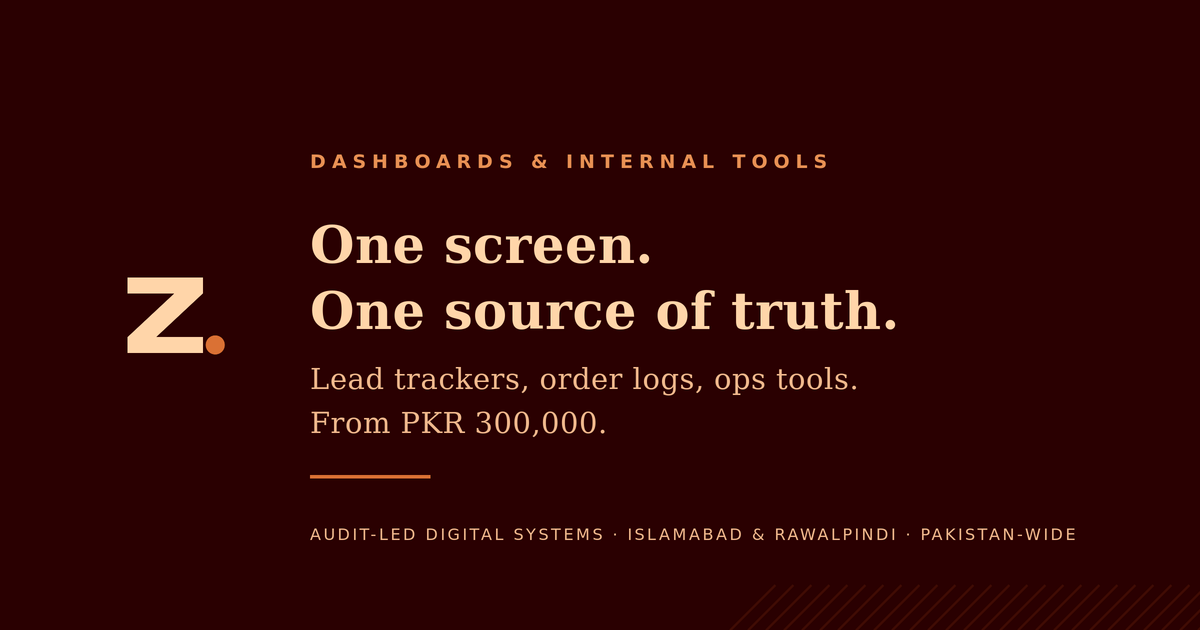
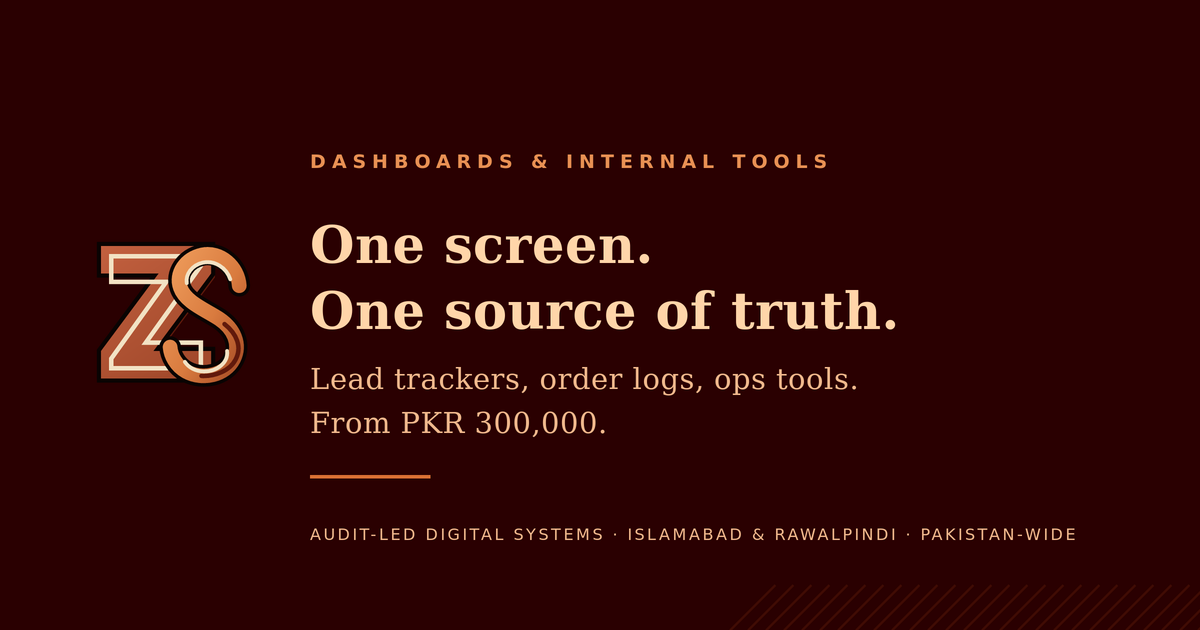
Fix OG images: replace old Z. glyph with canonical ZS monogram
- generate-assets.mjs now composites public/images/logo-mark.svg
  (rendered via resvg) into every OG card instead of drawing the
  retired geometric Z tile
- removed the stale old-glyph icon generators from the script
  (icons are owned by build-logo-assets.mjs)
- regenerated all 13 og*.png cards with the real brand mark

Changed region(s): [[0.0617, 0.3619, 0.2158, 0.6333]]

diff --git a/logo_replacement.md b/logo_replacement.md
@@ -140,8 +140,9 @@ before committing.
 - Palette (also the brand tokens): rust `#b3573a`, copper
   `#d97b3f → #ef9d5c`, cream `#f2e2c4`, maroon `#611a0c`, eclipse ground
   `#2A0001`. These map to `--ember-*` and `--ground-*` in `globals.css`.
-- `scripts/generate-assets.mjs` still contains the **old geometric glyph**
-  icon generator. It now owns only the OG images — do not use it for icons.
+- `scripts/generate-assets.mjs` owns only the OG images. It now composites
+  the canonical monogram (`public/images/logo-mark.svg`, rendered via
+  resvg) instead of the old geometric glyph — do not use it for icons.
 - `scripts/logo_geom.py` / `scripts/emit_logo_svg.py` generated the *previous*
   parametric rebuild, which has been replaced. They are superseded by the
   hand-authored SVG and are kept only for reference.
